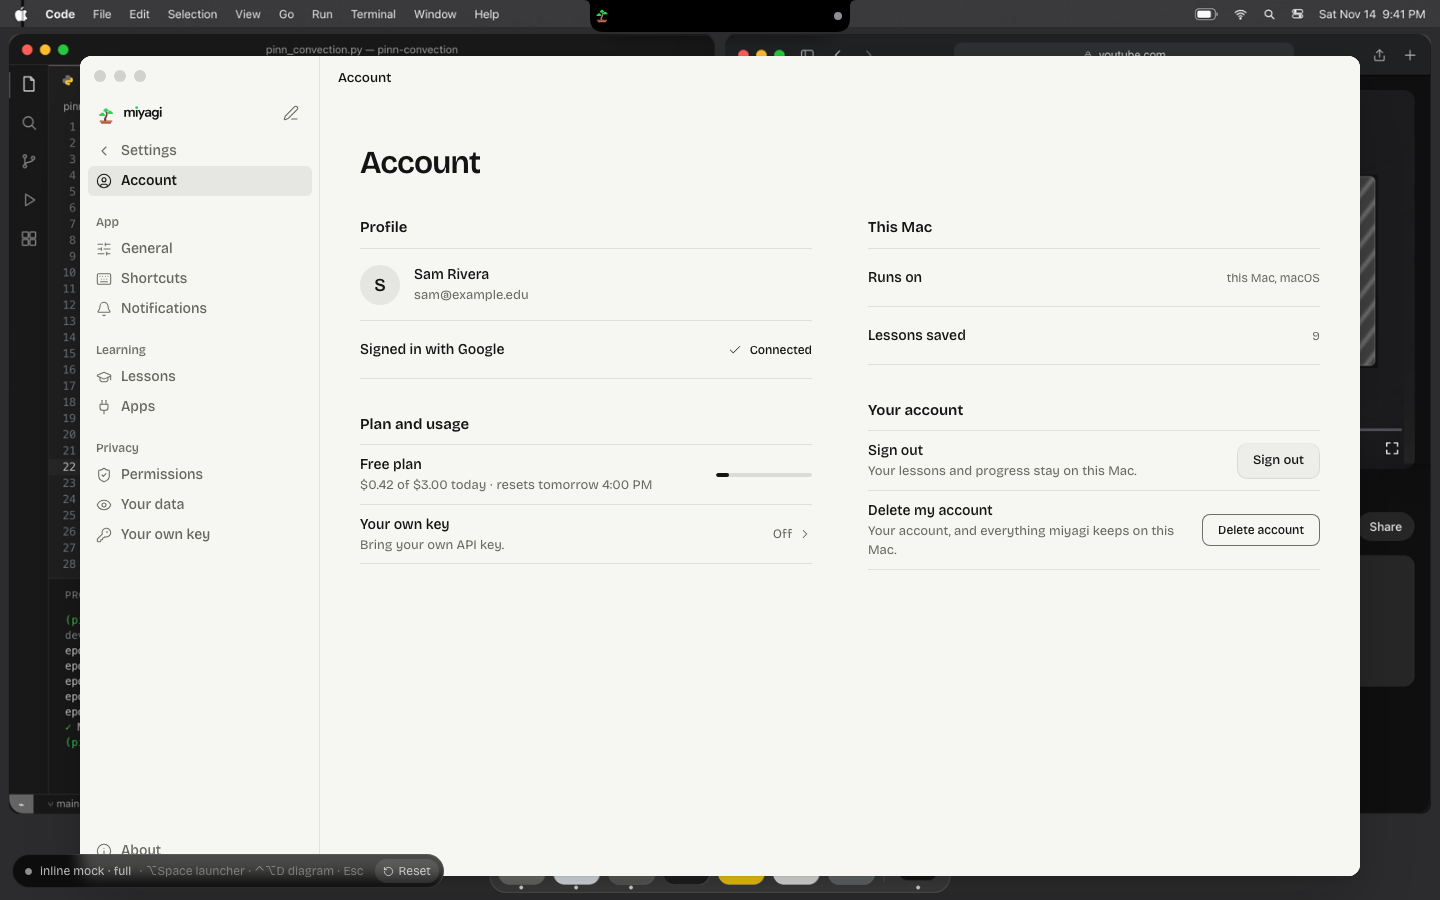
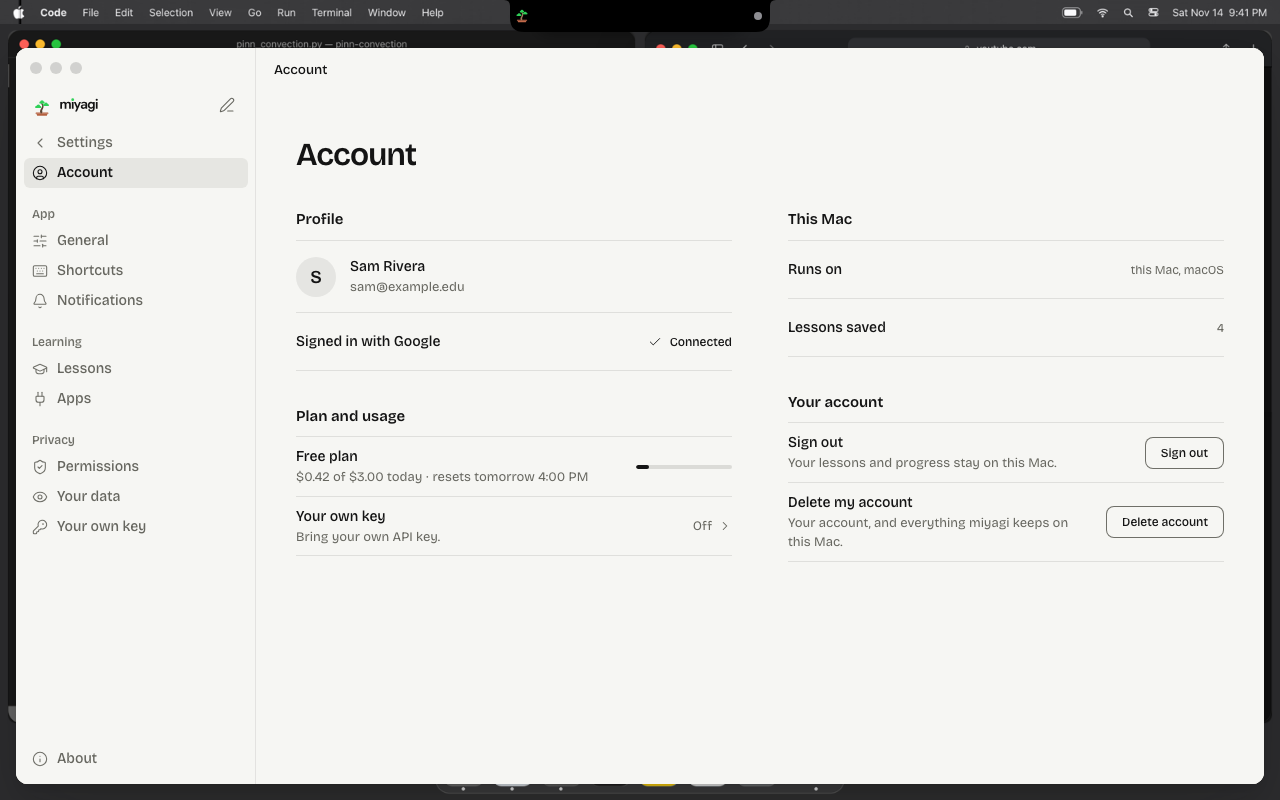
fix(account): Delete my account on the Account page shows its line and restarts
DeleteAccount's sign-out step cleared the signed-in user in the same update as
its "deleted" line, so the Account page swapped to the signed-out layout,
unmounted the row, and neither the line nor the account:restart timer ran.
DeleteAccount now reports onBusy (true when the delete starts, false again when
nothing was deleted), and LoginAccount holds its signed-in layout with the user
the delete started with until the restart. The page also passes onDeleted, so
"Your own key" reads Off after the keys are gone.

Sign out is now the same quiet outline as Delete account (Privacy's
OutlineButton, exported), so the two rows of Your account match.

Stage (5288, v2Cloud=0, auth=signedin): the deleted line shows, account:restart
is called, the key reads Off; offline still offers Try again. Shots refreshed.

diff --git a/app/src/renderer/src/features/shell/pages/AccountPage.tsx b/app/src/renderer/src/features/shell/pages/AccountPage.tsx
@@ -11,7 +11,8 @@
  *   signed in    Profile (who you are, signed in with Google), Plan and usage (the plan and today's use from
  *                miyagi-cloud, features/session MIC-30: "$0.42 of $3.00 today · resets 4:00 PM", local time, with a
  *                4 px bar; Your own key), This Mac, Your account (Sign out asks first in the sheet; Delete my account
- *                keeps its in-place two-step confirm, settings/sections/Privacy DeleteAccount)
+ *                keeps its in-place two-step confirm, settings/sections/Privacy DeleteAccount; the page holds its
+ *                signed-in layout through the delete, so the deleted line shows and the restart runs)
  *   signed out   "Sign in to sync your progress across Macs", one primary (Sign in opens the sheet over this page)
  *   loading      the same groups as quiet skeleton lines until auth:get answers (no answer reads as signed out)
  * v2Cloud (mock data, stage or a VITE_MIYAGI_V2_CLOUD=1 build): the same page with the plan's name and what it
@@ -23,14 +24,14 @@
  * the sheet do that.
  */
 import { ChevronRight } from 'lucide-react'
-import { useEffect, type ReactNode } from 'react'
+import { useEffect, useState, type ReactNode } from 'react'
 import { bridge } from '../../../bridge'
 import { color, copy, type2 } from '../../../core/theme'
 import { PrimaryButtonV2, QuietButton, Skeleton } from '../../../core/ui/atoms'
 import { initialOf, planLabel, resetDay, v2Cloud, type Account, type HelpMeter } from '../../account/model'
 import { loadAccount, useAccount } from '../../account/store'
 import { Avatar } from '../../auth/Avatar'
-import { LIVE, PROVIDER_LABEL, authOn, type Provider } from '../../auth/model'
+import { LIVE, PROVIDER_LABEL, authOn, type Provider, type User } from '../../auth/model'
 import { loadAuth, useAuth } from '../../auth/store'
 import { capsLine, planLabel as sessionPlan, type Caps } from '../../session/model'
 import { loadSession, useSession } from '../../session/store'
@@ -38,7 +39,8 @@ import { useLibrary } from '../../library/store'
 import { thisDevice } from '../../onboarding/device'
 import { setPagePanel } from '../../settings/nav'
 import type { PanelId } from '../../settings/panels'
-import { DeleteAccount } from '../../settings/sections/Privacy'
+import type { KeysView } from '../../settings/keys'
+import { DeleteAccount, OutlineButton } from '../../settings/sections/Privacy'
 import { OWN_KEY } from '../../settings/words'
 import { Flat, Group, OnWord, Plain, Row } from '../../settings/ui'
 import { FOOT4, NAV4 } from '../../settings/v4/PageNav'
@@ -179,12 +181,24 @@ function ThisMac(): ReactNode {
   )
 }
 
-/** Sign out (asks first, in the sheet) and Delete my account (its in-place two-step confirm). Signed in only. */
-function YourAccount(): ReactNode {
+/** The keys are gone after a delete: "Your own key" reads Off (Settings' Your data panel does the same). */
+const keysCleared = (v: KeysView): void => useAccount.setState({ ownKey: Object.values(v.keys).some((k) => k?.set === true) })
+
+/**
+ * Sign out (asks first, in the sheet) and Delete my account (its in-place two-step confirm). Signed in only. Both are
+ * the quiet outline, so the two rows match. `onBusy`: the delete is in flight or done (LoginAccount holds the page).
+ */
+function YourAccount({ onBusy }: { onBusy?: (busy: boolean) => void }): ReactNode {
   return (
     <Group label="Your account">
-      <Row label="Sign out" caption={`Your lessons and progress stay on ${thisDevice()}.`} right={<QuietButton label="Sign out" onClick={() => openSheet('signout')} />} />
-      <DeleteAccount label="Delete my account" row={`Your account, and everything ${copy.name} keeps on this Mac.`} button="Delete account" />
+      <Row label="Sign out" caption={`Your lessons and progress stay on ${thisDevice()}.`} right={<OutlineButton label="Sign out" aria="Sign out" onClick={() => openSheet('signout')} />} />
+      <DeleteAccount
+        onDeleted={keysCleared}
+        onBusy={onBusy}
+        label="Delete my account"
+        row={`Your account, and everything ${copy.name} keeps on this Mac.`}
+        button="Delete account"
+      />
     </Group>
   )
 }
@@ -224,8 +238,14 @@ function Loading(): ReactNode {
 
 /** The shipped page: the real login (features/auth). */
 function LoginAccount(): ReactNode {
-  const user = useAuth((s) => s.user)
+  const live = useAuth((s) => s.user)
   const loaded = useAuth((s) => s.loaded)
+  // Delete my account signs out mid-delete (erase.ts step 4), in the same update as its "deleted" line. Without a hold
+  // the signed-out page would replace this one, unmount the row, and the line and the restart would never happen. So
+  // while a delete is in flight or done, the signed-in layout stays up with the user it started with, until the restart.
+  const [held, setHeld] = useState<User | null>(null)
+  const hold = (busy: boolean): void => setHeld(busy ? useAuth.getState().user : null)
+  const user = live ?? held
   useEffect(() => {
     void loadAuth()
     void loadAccount() // only for the "Your own key" On / Off (settings:get); account:get is null here
@@ -264,7 +284,7 @@ function LoginAccount(): ReactNode {
       right={
         <>
           <ThisMac />
-          <YourAccount />
+          <YourAccount onBusy={hold} />
         </>
       }
     />

diff --git a/app/src/renderer/src/features/settings/sections/Privacy.tsx b/app/src/renderer/src/features/settings/sections/Privacy.tsx
@@ -74,11 +74,18 @@ export function Privacy({ secure, onDeleted }: { secure?: boolean; onDeleted: (v
  */
 export function DeleteAccount({
   onDeleted,
+  onBusy,
   label = DELETE.label,
   row = DELETE.row,
   button = 'Delete'
 }: {
   onDeleted?: (v: KeysView) => void
+  /**
+   * true when the delete starts, false again when nothing was deleted (offline, refused). The sign-out step clears the
+   * signed-in user mid-delete, so a page that draws this row only while signed in (the Account page) holds its
+   * signed-in layout while this is true: the deleted line shows and the restart timer runs.
+   */
+  onBusy?: (busy: boolean) => void
   label?: string
   row?: string
   button?: string
@@ -107,6 +114,7 @@ export function DeleteAccount({
   const erase = async (): Promise<void> => {
     if (step !== 'confirm' && step !== 'offline' && step !== 'refused') return
     setStep('deleting')
+    onBusy?.(true)
     const r = await deleteAccount((channel, payload) => bridge.invoke<unknown>(channel, payload), { lessons })
     if (r.deleted) {
       onDeleted?.(r.deleted.keys)
@@ -115,6 +123,7 @@ export function DeleteAccount({
     if (r.signedOut) useAuth.setState({ user: null })
     setLeftovers(!r.local)
     setStep(r.step)
+    if (r.step === 'offline' || r.step === 'refused') onBusy?.(false)
   }
 
   // Deleted: the line shows for a moment, then a built app starts again from the first-run screen.
@@ -213,8 +222,11 @@ export function DeleteAccount({
   )
 }
 
-/** Delete is always an outline, never the white primary: the first one only asks, the second one is not the default. */
-function OutlineButton({ label, onClick, aria = DELETE.label }: { label: string; onClick: () => void; aria?: string }): ReactNode {
+/**
+ * Delete is always an outline, never the white primary: the first one only asks, the second one is not the default.
+ * The Account page's Sign out uses it too, so its two rows match.
+ */
+export function OutlineButton({ label, onClick, aria = DELETE.label }: { label: string; onClick: () => void; aria?: string }): ReactNode {
   return (
     <motion.button
       type="button"
